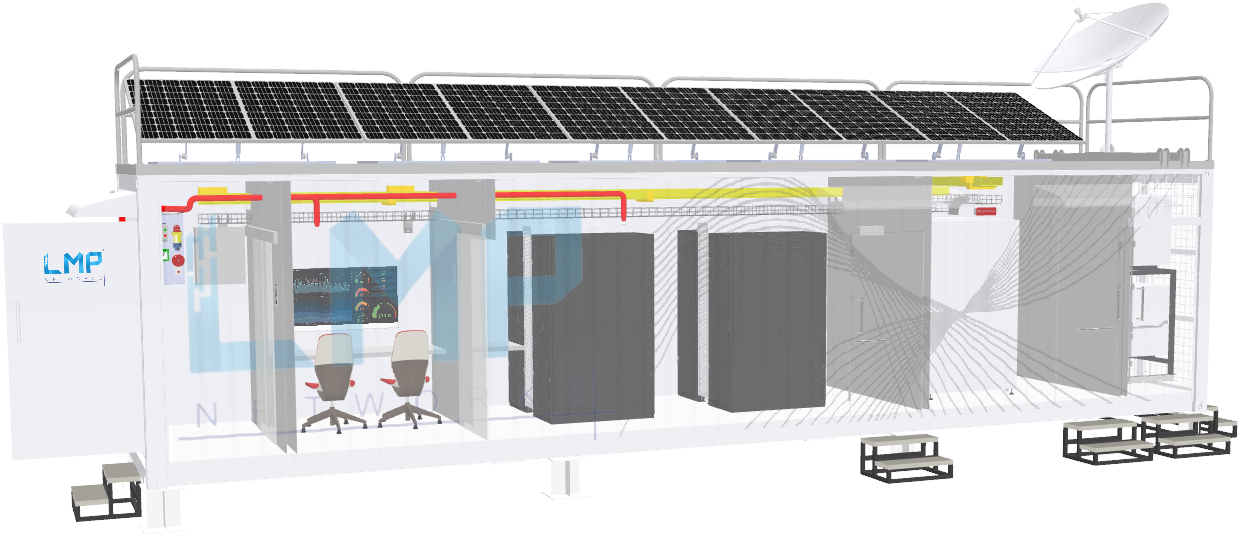
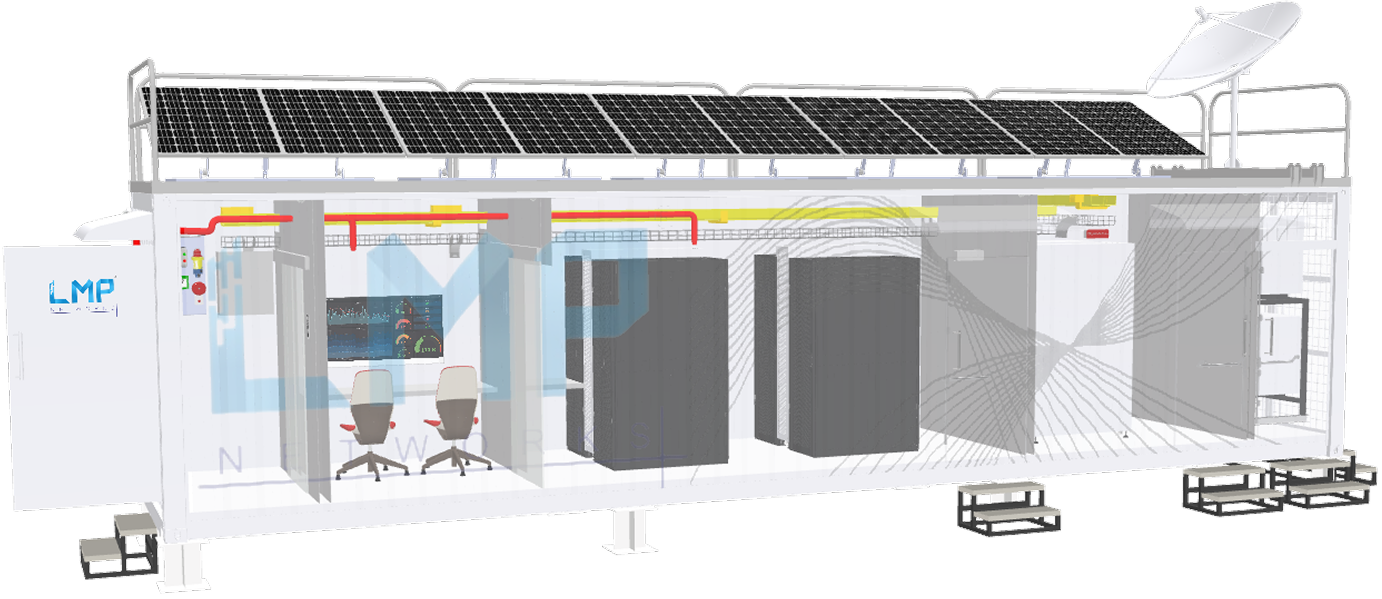
fix: image containment3

diff --git a/resources/js/Components/EdgeDcSection.jsx b/resources/js/Components/EdgeDcSection.jsx
@@ -141,7 +141,7 @@ const EdgeDcSection = ({
                                     className="order-1 md:order-2 flex justify-center"
                                 >
                                     <motion.div
-                                        className="relative w-full max-w-md"
+                                        className="relative w-full max-w-lg"
                                         initial={{ scale: 0.9, opacity: 0 }}
                                         animate={{ scale: 1, opacity: 1 }}
                                         transition={{